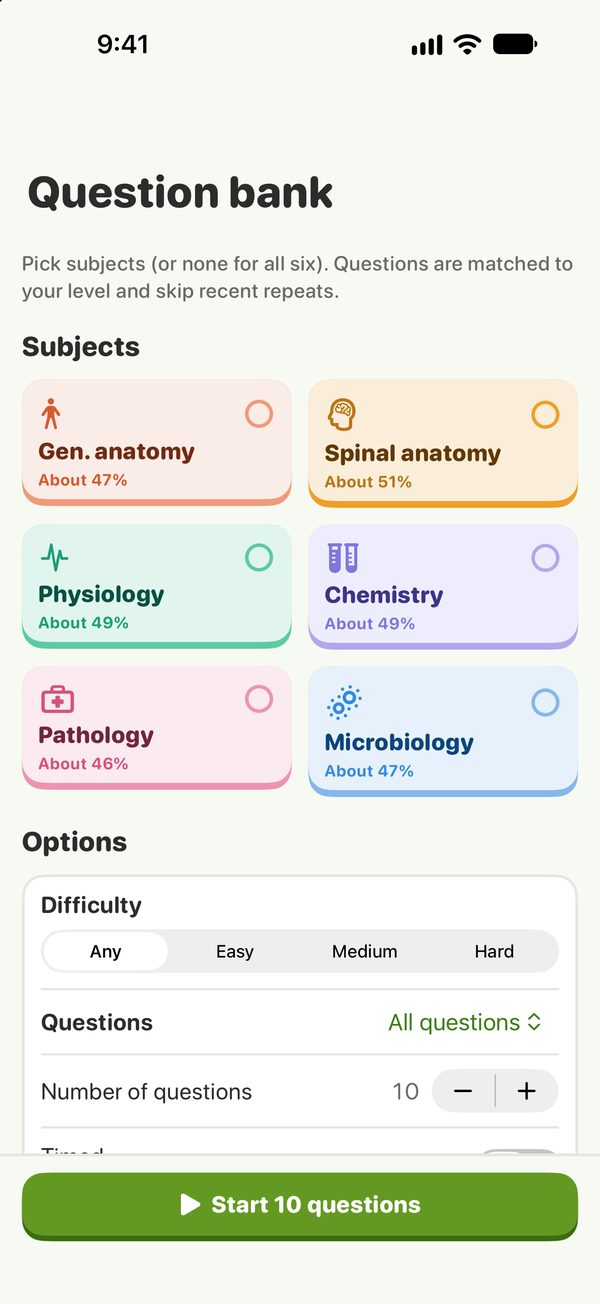
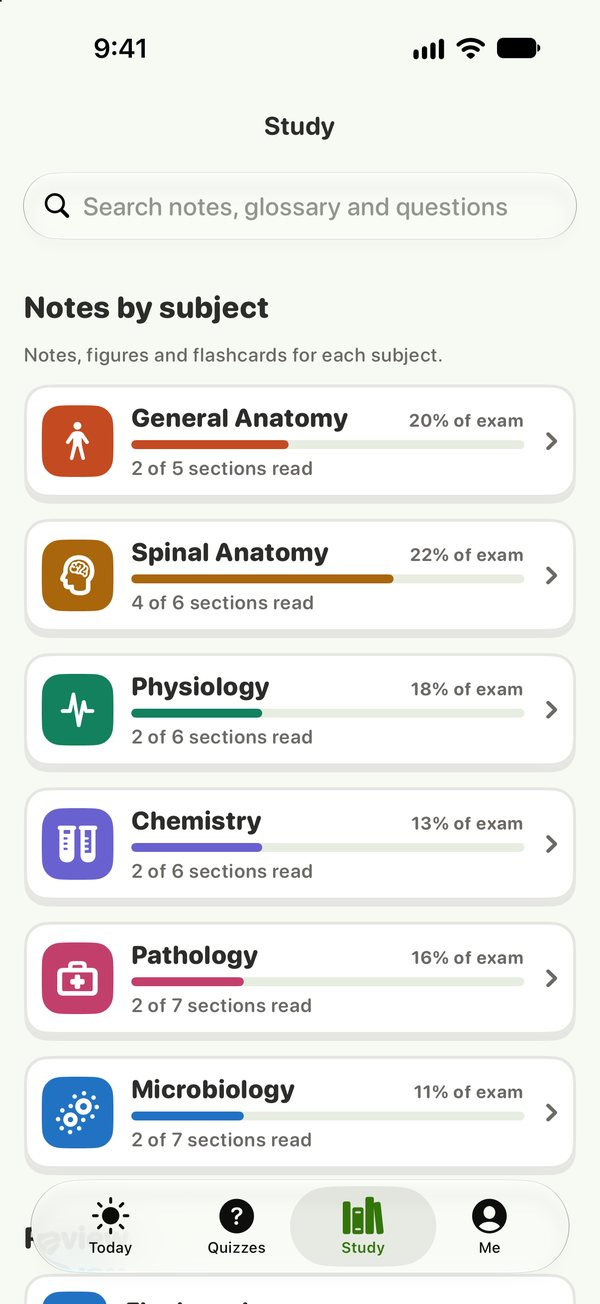
Update screenshots and wording for the new app screens

Changed region(s): [[0.03, 0.092, 0.99, 1.0], [0.69, 0.0, 0.9, 0.0613], [0.15, 0.0307, 0.24, 0.0613]]

diff --git a/index.html b/index.html
@@ -212,10 +212,11 @@ html,body{overflow-x:clip}
     </div>
     <div class="heroart">
       <div class="phone"><div class="screens" id="screens">
-        <img class="on" src="assets/s-today.jpg" alt="The ChiroBoards Today screen: readiness, day streak and days left, above a winding trail of today's study steps ending in a trophy." width="600" height="1304" data-cap="Today's plan, as a trail">
+        <img class="on" src="assets/s-today.jpg" alt="The ChiroBoards Today screen: readiness, streak and days left across the top, the current week, and a winding trail of today's study steps with Axis the otter beside the next one." width="600" height="1304" data-cap="Today's plan, as a trail">
         <img src="assets/s-question.jpg" alt="A practice question with every answer choice explained." width="600" height="1304" data-cap="Every answer explained">
         <img src="assets/s-notes.jpg" alt="Study notes with a labelled figure." width="600" height="1304" data-cap="Notes with figures">
-        <img src="assets/s-study.jpg" alt="The Study screen with a tile for each of the six subjects." width="600" height="1304" data-cap="All six subjects">
+        <img src="assets/s-quizzes.jpg" alt="The Quizzes screen: a quick ten questions, then one tap to quiz any of the six subjects." width="600" height="1304" data-cap="One tap to quiz">
+        <img src="assets/s-study.jpg" alt="The Study screen listing notes for each of the six subjects with reading progress." width="600" height="1304" data-cap="Notes for all six subjects">
         <img src="assets/s-plan.jpg" alt="The week-by-week study plan with Easy, Medium and Hard pace." width="600" height="1304" data-cap="A plan from your exam date">
       </div></div>
       <div class="cap" aria-hidden="true"><b id="cap">Today's plan, as a trail</b><div class="dots" id="dots"></div></div>
@@ -241,7 +242,7 @@ html,body{overflow-x:clip}
       <div class="card"><div class="ico">⏱</div><h3>Timed mock exams</h3><p>Exams that follow the Part I subject weights. Review every item after, with your accuracy by subject and topic.</p></div>
       <div class="card"><div class="ico">📖</div><h3>Study notes</h3><p>Clear notes for every subject, with tables, mnemonics and original anatomy figures.</p></div>
       <div class="card"><div class="ico">🎯</div><h3>Weak-area coaching</h3><p>The app finds the topics you miss most and builds practice around them.</p></div>
-      <div class="card"><div class="ico">🔒</div><h3>Private by design</h3><p>No accounts, no ads, no tracking. Your progress stays on your device.</p></div>
+      <div class="card"><div class="ico">🔒</div><h3>Private by design</h3><p>No ads, no tracking, no password to make. Your progress stays on your devices and in your own iCloud.</p></div>
     </div>
   </div>
 </section>
@@ -255,13 +256,13 @@ html,body{overflow-x:clip}
         <img class="on" src="assets/s-question.jpg" alt="" width="600" height="1304">
         <img src="assets/s-notes.jpg" alt="" width="600" height="1304">
         <img src="assets/s-exam.jpg" alt="" width="600" height="1304">
-        <img src="assets/s-study.jpg" alt="" width="600" height="1304">
+        <img src="assets/s-quizzes.jpg" alt="" width="600" height="1304">
       </div></div></div>
       <div class="beats">
         <article class="on"><div class="k">Practice</div><h3>Every answer explained</h3><p>Pick an answer and see why it's right, and why each of the other choices is wrong. You learn something even when you miss.</p><img src="assets/s-question.jpg" alt="Every answer explained: a ChiroBoards screen." width="600" height="1304" loading="lazy"></article>
         <article><div class="k">Read</div><h3>Notes that get to the point</h3><p>Short sections with tables, mnemonics and original figures, written around the Part I test plan.</p><img src="assets/s-notes.jpg" alt="Notes that get to the point: a ChiroBoards screen." width="600" height="1304" loading="lazy"></article>
         <article><div class="k">Test</div><h3>Mock exams under time</h3><p>Timed exams that follow the real subject weights, then a breakdown of how you did in every subject.</p><img src="assets/s-exam.jpg" alt="Mock exams under time: a ChiroBoards screen." width="600" height="1304" loading="lazy"></article>
-        <article><div class="k">Choose</div><h3>Study any subject, any time</h3><p>Jump into a quick ten questions or pick one of the six subjects. The plan is a guide, not a cage.</p><img src="assets/s-study.jpg" alt="Study any subject, any time: a ChiroBoards screen." width="600" height="1304" loading="lazy"></article>
+        <article><div class="k">Choose</div><h3>Study any subject, any time</h3><p>Jump into a quick ten questions or pick one of the six subjects. The plan is a guide, not a cage.</p><img src="assets/s-quizzes.jpg" alt="The Quizzes screen: quick ten and one tap per subject." width="600" height="1304" loading="lazy"></article>
       </div>
     </div>
   </div>
@@ -333,8 +334,9 @@ html,body{overflow-x:clip}
       <h2>Questions</h2>
       <details><summary>Can I download it yet?</summary><p>Not yet. ChiroBoards is coming soon to the App Store for iPhone, iPad and Mac. Follow <a href="https://www.instagram.com/getchiroboards/">@getchiroboards</a> to hear when it's live.</p></details>
       <details><summary>Is ChiroBoards connected to the NBCE?</summary><p>No. ChiroBoards is an independent study aid. It is not affiliated with, endorsed by or sponsored by the NBCE. Always check the current test plan on the NBCE's own website.</p></details>
-      <details><summary>Do I need an account?</summary><p>No. There are no accounts, ads or tracking. Your progress is stored on your device.</p></details>
-      <details><summary>Does my progress move between my devices?</summary><p>Progress is kept on each device. To move it, open Me, tap Back up progress to save a file, then tap Restore on the other device.</p></details>
+      <details><summary>Do I need an account?</summary><p>No. You can sign in with Apple in one tap if you like, but it's optional, there's no password to make and we don't ask for your email. Your progress is stored on your device and, if you use iCloud, in your own private iCloud.</p></details>
+      <details><summary>How does the app know my level?</summary><p>When you start, a short 20-question level check covers all six subjects in the same proportions as the exam. It shows your strongest and weakest subject and points your first sessions where you need them. You can skip it and take it later.</p></details>
+      <details><summary>Does my progress move between my devices?</summary><p>Yes. If you're signed in to iCloud, your progress syncs by itself across your iPhone, iPad and Mac. There's nothing to set up.</p></details>
       <details><summary>How do I get help?</summary><p>Email <a href="mailto:chiroboards0@gmail.com">chiroboards0@gmail.com</a> or see the <a href="support.html">Support page</a>.</p></details>
     </div>
   </div>

diff --git a/privacy.html b/privacy.html
@@ -140,15 +140,15 @@ main.doc .muted{color:var(--muted)}
 <h1>ChiroBoards Privacy Policy</h1>
 <p class="muted">Last updated November 2026</p>
 <h2>The short version</h2>
-<p>ChiroBoards does not collect your personal data. There are no accounts, no tracking, no ads and no analytics.</p>
-<h2>What stays on your device</h2>
-<p>Your answers, progress, flashcards, notes, highlights, exam date and first name are stored only on your device. We cannot see them. Deleting the app deletes them, unless you have saved a backup.</p>
+<p>ChiroBoards does not collect your personal data. There is no ChiroBoards account or password, no tracking, no ads and no analytics. Signing in with Apple is optional. If you use it, the app keeps an anonymous identifier from Apple on your device so it can recognise you, and may use your first name for the greeting. We do not ask for your email, and none of this is sent to us.</p>
+<h2>Where your study data is kept</h2>
+<p>Your answers, progress, flashcards, notes, highlights and exam date are stored on your device. If you are signed in to iCloud, they are also kept in your own private iCloud storage, so they stay the same on your iPhone, iPad and Mac. That storage belongs to your Apple Account and is run by Apple. We cannot see or reach it. To stop syncing, turn off iCloud for ChiroBoards in the Settings app. Deleting the app removes the data from that device. Data in your iCloud stays until you remove it under iCloud storage in the Settings app.</p>
 <h2>Backups</h2>
 <p>If you use Back up progress, the app writes your data to a file in a place you choose, such as Files or iCloud Drive. The file stays under your control. We never receive it.</p>
 <h2>Purchases</h2>
 <p>Subscriptions are processed by Apple. We never see your payment details. Apple tells the app only whether your subscription is active.</p>
 <h2>Your name</h2>
-<p>If you enter a first name, it is used only for the greeting and the personal watermark on notes, on your device.</p>
+<p>If you enter a first name, it is used only for the greeting and the personal watermark on notes. It stays on your device and is not synced.</p>
 <h2>Children</h2>
 <p>ChiroBoards is meant for chiropractic students and is not directed at children under 13.</p>
 <h2>Contact</h2>

diff --git a/support.html b/support.html
@@ -141,7 +141,7 @@ main.doc .muted{color:var(--muted)}
 <p>Email <a href="mailto:chiroboards0@gmail.com">chiroboards0@gmail.com</a>. We usually reply within two business days.</p>
 <p>Follow <a href="https://www.instagram.com/getchiroboards/">@getchiroboards</a> on Instagram for daily practice questions and updates.</p>
 <div class="card"><h2>Found a mistake in a question or note?</h2><p>Tap <b>Report a problem</b> under the question or notes section. It opens an email with the question's ID filled in, so we can fix it fast.</p></div>
-<div class="card"><h2>Moving to a new phone</h2><p>Open <b>Me</b>, tap <b>Back up progress</b> and save the file to iCloud Drive or Files. On the new device, install ChiroBoards, open <b>Me</b>, tap <b>Restore</b> and choose that file.</p></div>
+<div class="card"><h2>Moving to a new phone</h2><p>If you're signed in to iCloud, your progress appears by itself on a new device a little while after you install ChiroBoards. Without iCloud: open <b>Me</b>, tap <b>Back up progress</b> and save the file to Files. On the new device, open <b>Me</b>, tap <b>Restore</b> and choose that file.</p></div>
 <div class="card"><h2>Restore a subscription</h2><p>Open the Pro screen and tap <b>Restore purchases</b>, signed in with the same Apple ID you subscribed with.</p></div>
 <div class="card"><h2>Cancel a subscription</h2><p>Open <b>Me</b> and tap <b>Manage</b>, or go to Settings › your name › Subscriptions. Cancel at least 24 hours before the period ends to avoid renewal. Refunds are handled by Apple at <a href="https://reportaproblem.apple.com">reportaproblem.apple.com</a>.</p></div>
 </main>
